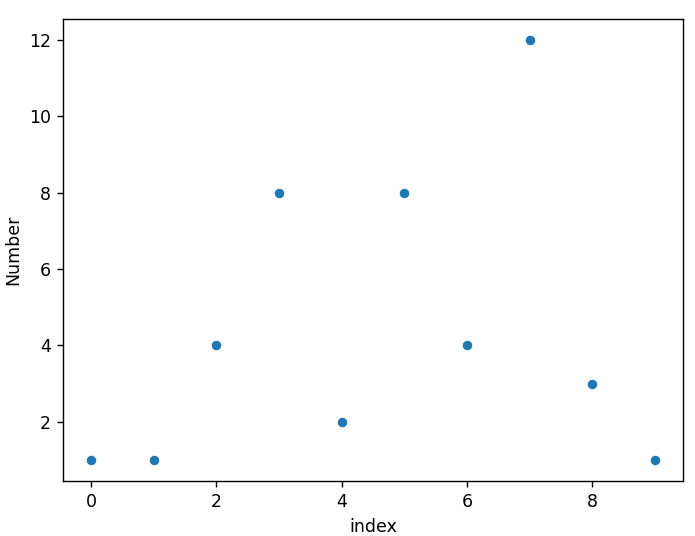
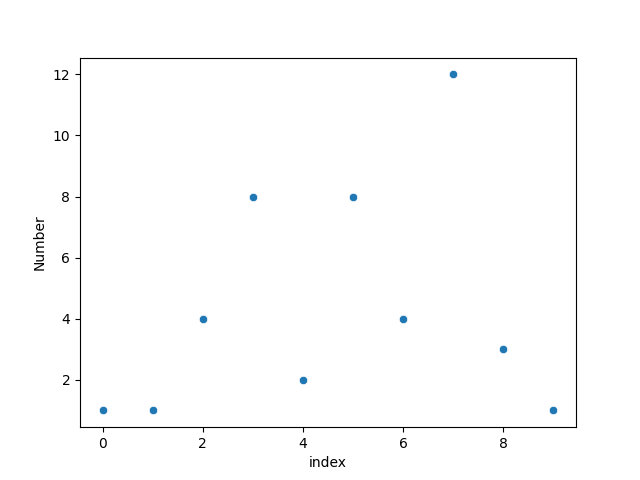
edit README.md

diff --git a/fly-straight-sequence.py b/fly-straight-sequence.py
@@ -21,7 +21,7 @@ def generate_fly_straight(m):
         n += 1
     return sequence
 
-sequence = generate_fly_straight(20)
+sequence = generate_fly_straight(100)
 print(sequence)
 
 # Basic scatterplots
@@ -30,6 +30,7 @@ sequence = generate_fly_straight(m)
 df = pd.DataFrame(sequence, columns=["Number"])
 df["index"] = [i for i in range(m)]
 sns.scatterplot(x="index", y="Number", data=df)
+plt.savefig("images/10.png")
 plt.show()
 
 m = 100
@@ -37,6 +38,7 @@ sequence = generate_fly_straight(m)
 df = pd.DataFrame(sequence, columns=["Number"])
 df["index"] = [i for i in range(m)]
 sns.scatterplot(x="index", y="Number", data=df)
+plt.savefig("images/100.png")
 plt.show()
 
 m = 1000
@@ -44,6 +46,7 @@ sequence = generate_fly_straight(m)
 df = pd.DataFrame(sequence, columns=["Number"])
 df["index"] = [i for i in range(m)]
 sns.scatterplot(x="index", y="Number", data=df)
+plt.savefig("images/1000.png")
 plt.show()
 
 # Scatterplots of the average
@@ -59,6 +62,7 @@ for i, s in enumerate(sequence):
 df = pd.DataFrame(average_sequence, columns=["Average"])
 df["index"] = [i for i in range(m)]
 sns.scatterplot(x="index", y="Average", data=df)
+plt.savefig("images/average_10.png")
 plt.show()
 
 m = 100
@@ -73,6 +77,7 @@ for i, s in enumerate(sequence):
 df = pd.DataFrame(average_sequence, columns=["Average"])
 df["index"] = [i for i in range(m)]
 sns.scatterplot(x="index", y="Average", data=df)
+plt.savefig("images/average_100.png")
 plt.show()
 
 m = 1000
@@ -87,6 +92,7 @@ for i, s in enumerate(sequence):
 df = pd.DataFrame(average_sequence, columns=["Average"])
 df["index"] = [i for i in range(m)]
 sns.scatterplot(x="index", y="Average", data=df)
+plt.savefig("images/average_1000.png")
 plt.show()
 
 m = 10000
@@ -101,6 +107,7 @@ for i, s in enumerate(sequence):
 df = pd.DataFrame(average_sequence, columns=["Average"])
 df["index"] = [i for i in range(m)]
 sns.scatterplot(x="index", y="Average", data=df)
+plt.savefig("images/average_10000.png")
 plt.show()
 
 m = 100000
@@ -115,4 +122,5 @@ for i, s in enumerate(sequence):
 df = pd.DataFrame(average_sequence, columns=["Average"])
 df["index"] = [i for i in range(m)]
 sns.scatterplot(x="index", y="Average", data=df)
+plt.savefig("images/average_100000.png")
 plt.show()

diff --git a/README.md b/README.md
@@ -1,7 +1,7 @@
 # fly-straight-sequence
 This script generates the [Fly-Straight sequence](https://www.youtube.com/watch?v=pAMgUB51XZA). 
 
-output: `[1, 1, 4, 8, 2, 8, 4, 12, 3, 1, 12, 24, 2, 16, 8, 24, 3, 21, 7, 27]`
+output: `[1, 1, 4, 8, 2, 8, 4, 12, 3, 1, 12, 24, 2, 16, 8, 24, 3, 21, 7, 27, 48, 16, 8, 32, 4, 30, 15, 5, 34, 64, 32, 64, 2, 36, 18, 54, 3, 41, 80, 120, 3, 45, 15, 59, 104, 150, 75, 123, 41, 91, 142, 194, 97, 151, 206, 262, 131, 189, 248, 308, 77, 139, 202, 266, 133, 199, 266, 334, 167, 237, 308, 380, 95, 169, 244, 320, 80, 158, 79, 1, 82, 164, 2, 86, 43, 129, 3, 1, 90, 180, 2, 94, 47, 141, 3, 99, 33, 131, 230, 330]`
 
 # Plotting with Seaborn
 ## Basic Scatterplots
